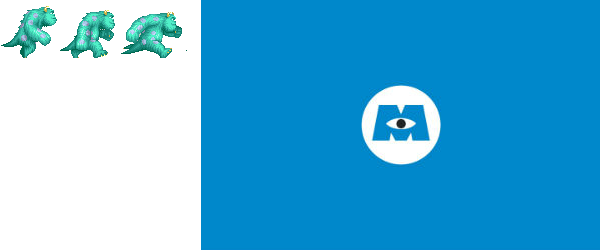
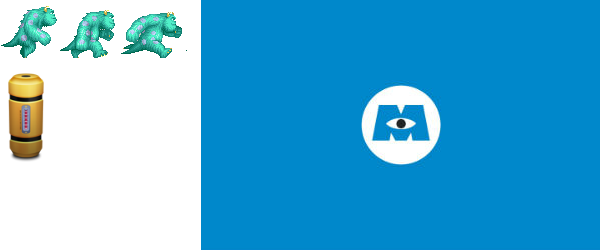
tubes coming

Changed region(s): [[0.0, 0.28, 0.09, 0.644]]

diff --git a/Javascript/main.js b/Javascript/main.js
@@ -2,6 +2,7 @@ var width,
     height,
     currentState,
     frames = 0,
+    theContainer,
     thehero;
 
 var states = {
@@ -11,6 +12,58 @@ var states = {
 };
 var canvas;
 var renderingContext;
+
+function containerGroup() {
+    this.collection = [];
+    this.reset = function () {
+        this.collection = [];
+    }
+
+    this.add = function () {
+        this.collection.push(new Container());
+    };
+    this.update = function () {
+        if(frames % 100 === 0){
+            this.add();
+        }
+        for(var i = 0, len = this.collection.length; i < len; i ++){
+            var container = this.collection[i];
+
+            if(i === 0){
+                container.detectCollision();
+            }
+
+            container.x -= 2;
+            if(container.x < -container.width){
+                this.collection.splice(i, 1);
+                i--;
+                len --;
+            }
+        }
+    };
+    this.draw = function () {
+        for (var i = 0, len = this.collection.length; i < len; i ++){
+            var container = this.collection[i];
+            container.draw();
+        }
+    }
+}
+
+function Container() {
+    this.x = 400;
+    this.y = 355;
+    this.width = containerSprite.width;
+    this.height = containerSprite.height;
+
+    this.detectCollision = function () {
+        if (this.x <= (thehero.x + thehero.width) && this.x >= thehero.x){
+            console.log("You're Dead");
+        }
+    }
+    this.draw = function () {
+        containerSprite.draw(renderingContext, this.x, this.y);
+    }
+}
 
 function Sully() {
     this.x = -60;
@@ -90,9 +143,11 @@ function main(){
     windowSetup();
     canvasSetup();
     currentState = states.splash;
-    document.body.appendChild(canvas)
+    document.body.appendChild(canvas);
+
     loadGraphics();
     thehero = new Sully();
+    theContainer = new containerGroup();
 }
 
 function windowSetup(){
@@ -137,7 +192,7 @@ function gameLoop() {
 function update() {
     frames ++;
     if(currentState === states.game){
-
+        theContainer.update();
     }
     thehero.update();
 }
@@ -145,5 +200,6 @@ function update() {
 function render() {
     renderingContext.fillRect(0, 0, width, height);
     backgroundSprite.draw(renderingContext, 0, 50);
+    theContainer.draw(renderingContext);
     thehero.draw(renderingContext);
 }

diff --git a/Javascript/spritesheet.js b/Javascript/spritesheet.js
@@ -1,6 +1,6 @@
 var sully;
 var background;
-var container;
+var containerSprite;
 
 function Sprite(img, x, y, width, height) {
     this.img = img;
@@ -13,7 +13,7 @@ function Sprite(img, x, y, width, height) {
 Sprite.prototype.draw = function (renderingContext, x, y) {
     renderingContext.drawImage(this.img, this.x, this.y, this.width, this.height, x, y, this.width, this.height);
 };
-
+//create a new character
 function initSprites(img) {
     sully = [
         new Sprite(img, 0, 0, 59, 59),
@@ -21,5 +21,6 @@ function initSprites(img) {
         new Sprite(img, 120, 0, 65, 59)
     ];
     backgroundSprite = new Sprite(img, 200, 0, 400, 430);
+    containerSprite = new Sprite(img, 0, 100, 45, 430);
 }
 
